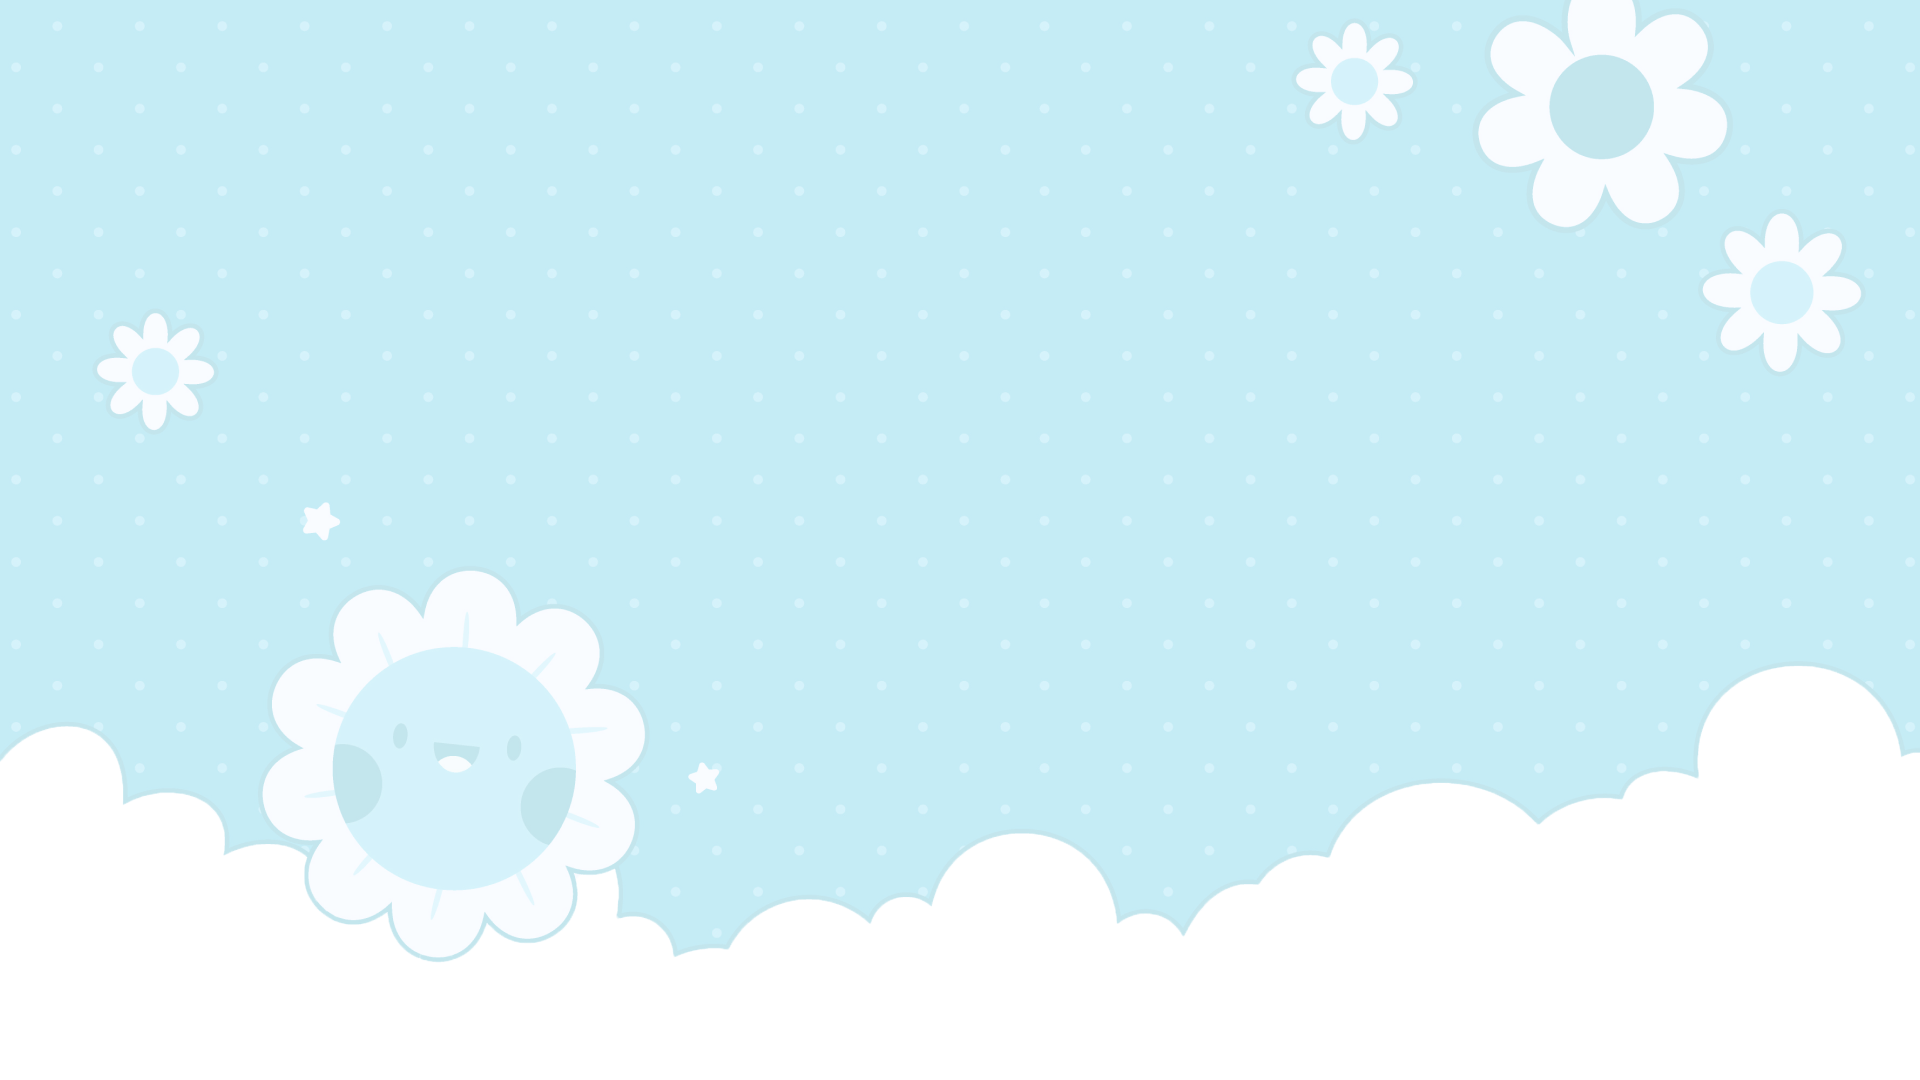
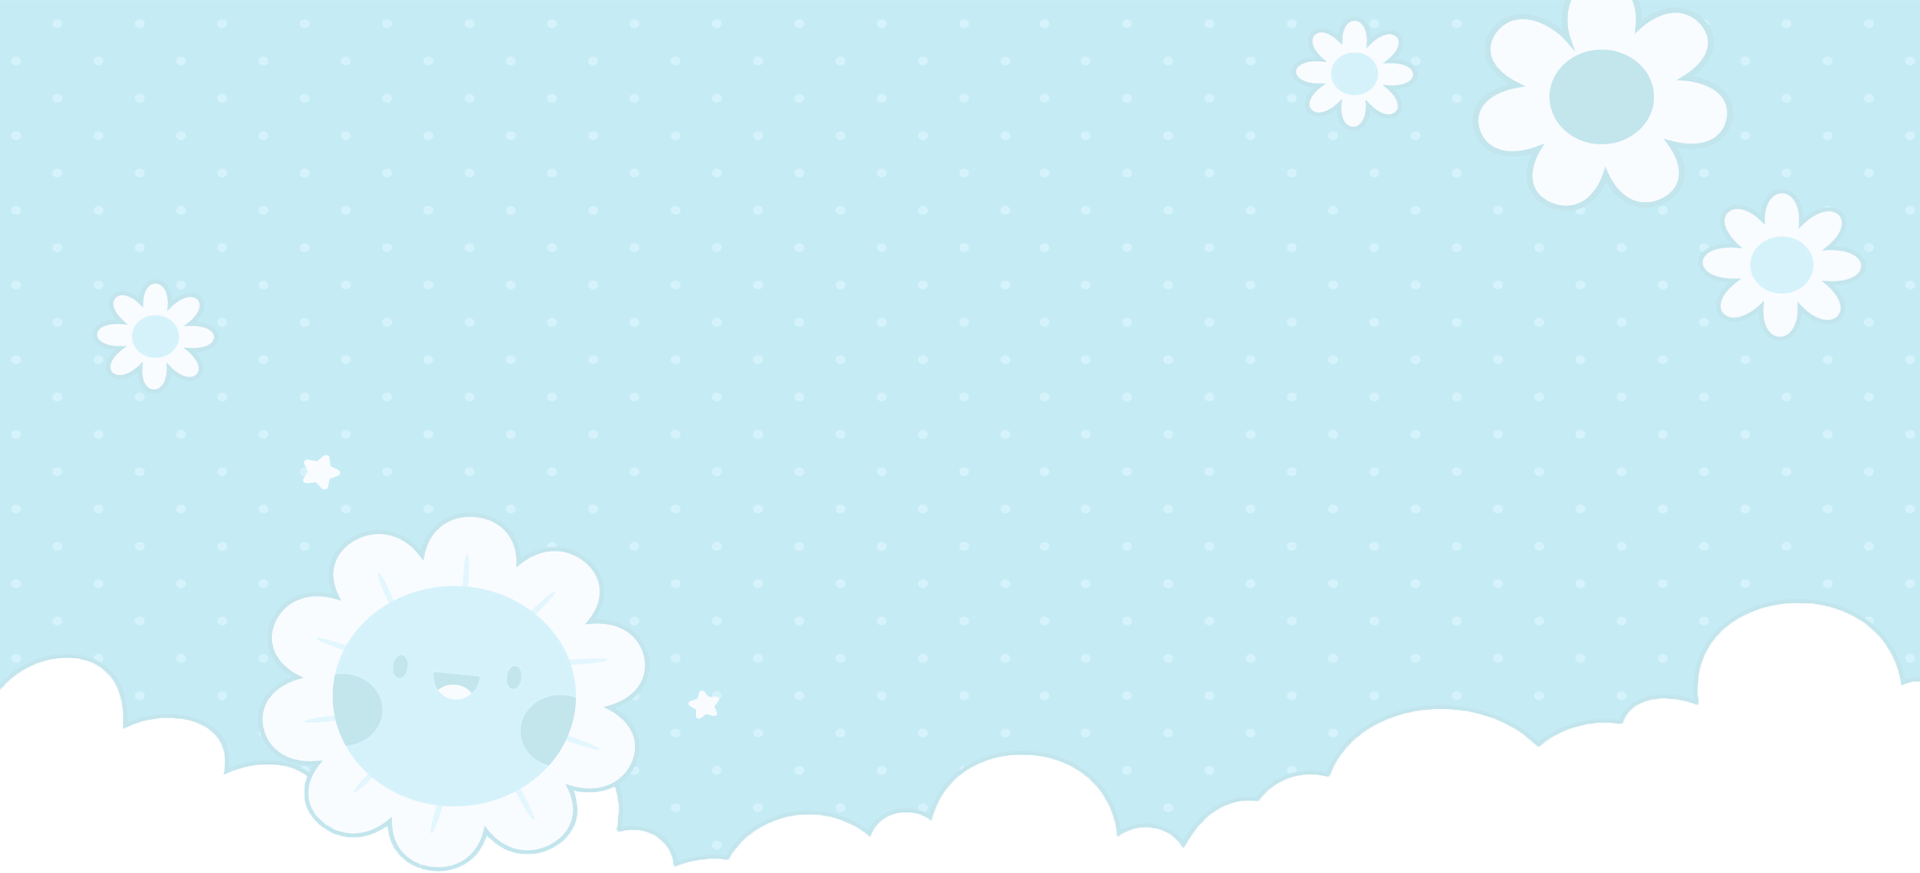
컨텐츠 이미지사이즈 변경(h:1080 ->h:980)

diff --git a/brand/ST.html b/brand/ST.html
@@ -6,13 +6,15 @@
     <script src="https://code.jquery.com/jquery-3.6.0.js" integrity="sha256-H+K7U5CnXl1h5ywQfKtSj8PCmoN9aaq30gDh27Xc0jk=" crossorigin="anonymous"></script>
     <title>new</title>
     <link href="./css/ST.css" rel="stylesheet" type="text/css" />
+
+   
 </head>
 <body>
 <!--헤더영역-->
 <header>
     <div id="head">
         <nav>
-            <div id="mob_menu" >
+            <div id="mob_menu">
                 <article>
                     <div></div>
                     <div></div>
@@ -21,11 +23,11 @@
                 </article>
             </div>
             <ul class="flex">
-                <li><a href="#">홈으로 돌아가기</a></li>
+                <li><a href="index.html">홈으로 돌아가기</a></li>
                 <li><a href="#">로그인</a></li>
                 <li><a href="#">회원가입</a></li>
-                <li><a href="#">마이페이지</a></li>
-                <li><a href="#">장바구니</a></li>
+                <li ><a href="#">마이페이지</a></li>
+                <li ><a href="#">장바구니</a></li>
                 <li><a href="#"><img src="./images/lan.png" alt="icon_lan"/>KOR<img src="./images/tri.png" alt="icon_arrow_under"/></a></li>
             </ul>
         </nav>
@@ -283,7 +285,7 @@
         </article>
     </div>
 
-    <div id="prod4" class="wrap prod">    <!-- 04 미인활명수 -->
+     <div id="prod4" class="wrap prod">    <!-- 04 미인활명수 -->
         <article>   <!--컨텐츠 헤드-->
             <h2>미인활명수</h2>
             <h3>(일반의약품)</h3>
@@ -610,20 +612,18 @@
         </article>
     </div>
 
-    <div id="products">
-        <ul class="flex">
-            <li><a href="#"><img src="./images/img2.png" alt="img2"/></a></li>
-            <li><a href="#"><img src="./images/img3.png" alt="img3"/></a></li>
-            <li><a href="#"><img src="./images/img4.png" alt="img4"/></a></li>
-            <li><a href="#"><img src="./images/img5.png" alt="img5"/></a></li>
-            <li><a href="#"><img src="./images/img6.png" alt="img6"/></a></li>
-            <li><a href="#"><img src="./images/img7_pack.png" alt="img7"/></a></li>
-            <li><a href="#"><img src="./images/img8_pack.png" alt="img8"/></a></li>
-            
-        </ul>
-    </div>
+        <div id="products">
+            <ul class="flex">
+                <li><a href="#"><img src="./images/img2.png" alt="img2"/></a></li>
+                <li><a href="#"><img src="./images/img3.png" alt="img3"/></a></li>
+                <li><a href="#"><img src="./images/img4.png" alt="img4"/></a></li>
+                <li><a href="#"><img src="./images/img5.png" alt="img5"/></a></li>
+                <li><a href="#"><img src="./images/img6.png" alt="img6"/></a></li>
+                <li><a href="#"><img src="./images/img7_pack.png" alt="img7"/></a></li>
+                <li><a href="#"><img src="./images/img8_pack.png" alt="img8"/></a></li>
+            </ul>
+        </div>
 </section>
-
 <!--푸터영역-->
 <footer class="flex">
     <div>
@@ -652,10 +652,13 @@
             <li><a href="#"><img src="./images/social_icon_4.png" alt="icon_social_4"></a></li>
         </ul>
     </div>
+
 </footer>
 
 <script>
-    $(document).ready(function(){
+    let change = function(){
+        
+        $("#main").css("background-image","url('./images/bg_01.png");
         $('#products>ul>li').click(function(){      
             let idx = $(this).index()+1;
             let cnt = $("#main>div").length;
@@ -665,9 +668,25 @@
             }
             $("#prod"+idx).addClass("switch");  //클래스 삽입
             $("#main").css("background-image","url('./images/bg_0"+ idx +".png')"); //이미지 삽입
-        }); 
-    });
+            let color = [
+                ,
+            "#56BB8A", 
+            "rgba(128,194,242,0.6)", 
+            "#F4BA65", 
+            "#ADCE99", 
+            "#97C94F", 
+            "#EDEC9B", 
+            "#C5ECF5"];
+            $("#main").css("background-color",color[idx]);
+        });
+    };
+    $(document).ready(change());
+
+
 
 </script>
+<!--jd slider-->
+
+<script type="text/javascript" src="./js/store_common.js"></script>
 </body>
 </html>

diff --git a/brand/css/ST.css b/brand/css/ST.css
@@ -5,18 +5,16 @@
 
 #main{
     width:100%;
-    height:900px;
-    background:url() no-repeat center/1920px 900px;
+    height:980px;
     position:relative;
+    background:url() no-repeat center/cover;
 }
-#main{  /*제품 클릭 시 배경 이미지 바뀜*/
-    background-image:url('../images/bg_01.png');
-}
+
 #main article:nth-of-type(1){
     padding-top:20px;
 }
 #main article:nth-of-type(1)>h2{
-    font-size:3.25rem;
+    font-size:4rem;
     font-weight:600;
 }
 #main article:nth-of-type(1)>h3{
@@ -28,7 +26,6 @@
     text-align:center;
     line-height:1.5;
 }
-
 
 .contents.flex{
     justify-content:space-between;
@@ -144,7 +141,54 @@
 
 
 @media screen and (max-width: 1023px){
-    
+    /*공통 레이아웃*/
+
+    #main{
+        height:1450px;
+        background-position:left top;
+        background-size:100% 600px;
+        background-color:#56BB8A;
+    }
+    .wrap{
+        width:100%;
+        height:100%;
+    }
+    #main article.flex>div{
+        width:100%;
+    }
+    .contents{
+        display:block;
+        position:relative;
+        width:80%;
+        height:inherit;
+        margin:0 auto;
+    }
+    .contents>.info_img{
+        position:absolute;
+        top:18%;
+        transform:translateY(-50%);
+    }
+    .contents>.info_text{
+        position:absolute;
+        top:47%;
+        transform:translateY(-50%);
+    }
+
+    .paybtn{
+        margin:0;
+        justify-content:space-between;
+        position:absolute;
+        top:72%;
+        left:17%;
+    }
+
+    #products{
+        top:82%;
+    }
+
+
+    /*컨텐츠 텍스트*/
+
     
 
 }

diff --git a/brand/js/store_common.js b/brand/js/store_common.js
@@ -1,8 +1,8 @@
 // 헤더영역 공통
 
-$(document).ready(function(){
+
     $(window).resize(function(){
-        let isWindow = $(window).width();
+        let isWindow = $("body").width();
         if(isWindow >= 1024){
             if($("#head ul>li").css("display") == "none"){
                 $("#head ul>li").css("display","block");
@@ -19,12 +19,9 @@ $(document).ready(function(){
             $("#mob_menu div").addClass("mob_menu_switch_on");      //햄버거 보여줌
         };
     });
-});
 
 
 $("#mob_menu").click(function(){    
-    let isWindow = $(window).width();
-
     if($("#mob_menu span").hasClass("mob_menu_switch_off")){    //클릭시 햄버거있으면
 
         $("#mob_menu span").removeClass("mob_menu_switch_off"); //초기화
